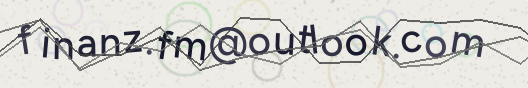
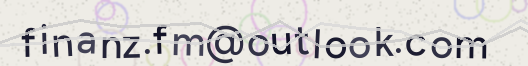
style(impressum): tone down the image distortion for readability
Tighter line height, less rotation and shift, and fewer, thicker but
lighter strike lines. Both impressum images are regenerated.

diff --git a/src/app/Console/Commands/GenerateImpressumImage.php b/src/app/Console/Commands/GenerateImpressumImage.php
@@ -32,9 +32,9 @@ class GenerateImpressumImage extends Command
 
     private const FONT_SIZE = 30;
     private const PADDING = 18;
-    private const LINE_HEIGHT = 52;
-    private const MAX_ROTATION = 10;
-    private const MAX_SHIFT = 4;
+    private const LINE_HEIGHT = 30;
+    private const MAX_ROTATION = 3;
+    private const MAX_SHIFT = 3;
     private const MAX_GAP = 3;
 
     private Randomizer $random;
@@ -134,9 +134,9 @@ class GenerateImpressumImage extends Command
         $width = imagesx($image);
         $height = imagesy($image);
 
-        imagesetthickness($image, 2);
-        for ($i = 0; $i < 3; $i++) {
-            $shade = $this->random->getInt(60, 120);
+        imagesetthickness($image, 3);
+        for ($i = 0; $i < 2; $i++) {
+            $shade = $this->random->getInt(190, 240);
             $color = imagecolorallocatealpha($image, $shade, $shade, $shade, 25);
             $y = $this->random->getInt(self::PADDING, $height - self::PADDING);
 
